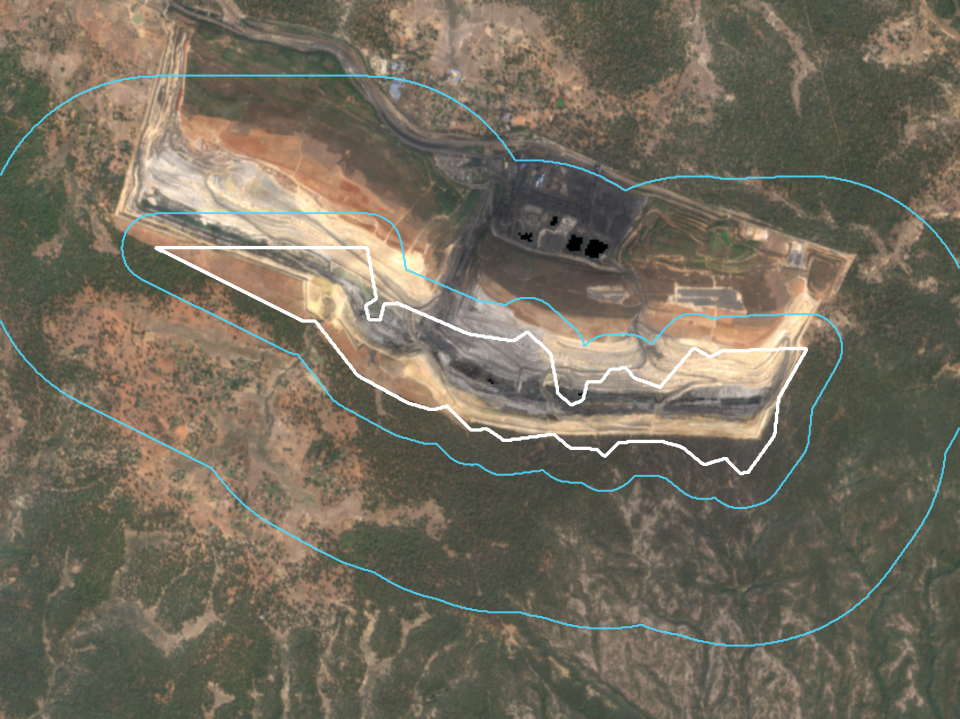
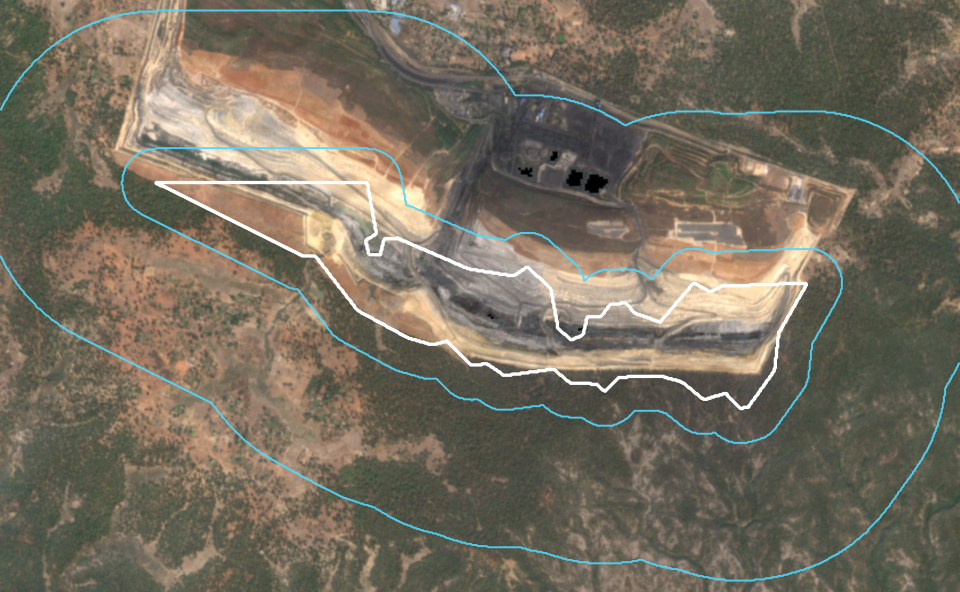
Crop landscape evidence to the control ring after the larger placebo grid

diff --git a/engine/pof_engine/evidence.py b/engine/pof_engine/evidence.py
@@ -69,8 +69,17 @@ def _zoom_window(inside: np.ndarray):
     return slice(y0, y1), slice(x0, x1)
 
 
+def _landscape_window(ring: np.ndarray, pad: int = 10):
+    """Project plus control ring (the analysis grid also extends further out for the placebo test)."""
+    ys, xs = np.where(ring)
+    h, w = ring.shape
+    return slice(max(0, ys.min() - pad), min(h, ys.max() + pad + 1)), slice(max(0, xs.min() - pad), min(w, xs.max() + pad + 1))
+
+
 def render(out: Path, nb, nm, rgb_b, rgb_m, inside, ring, report) -> list[str]:
     files = []
+    ly, lx = _landscape_window(ring)
+    nb, nm, rgb_b, rgb_m, inside, ring = nb[ly, lx], nm[ly, lx], rgb_b[ly, lx], rgb_m[ly, lx], inside[ly, lx], ring[ly, lx]
     zy, zx = _zoom_window(inside)
     for name, img in (("zoom_baseline_rgb.png", rgb_b), ("zoom_monitoring_rgb.png", rgb_m)):
         fig, ax = _frame(inside[zy, zx].shape)
